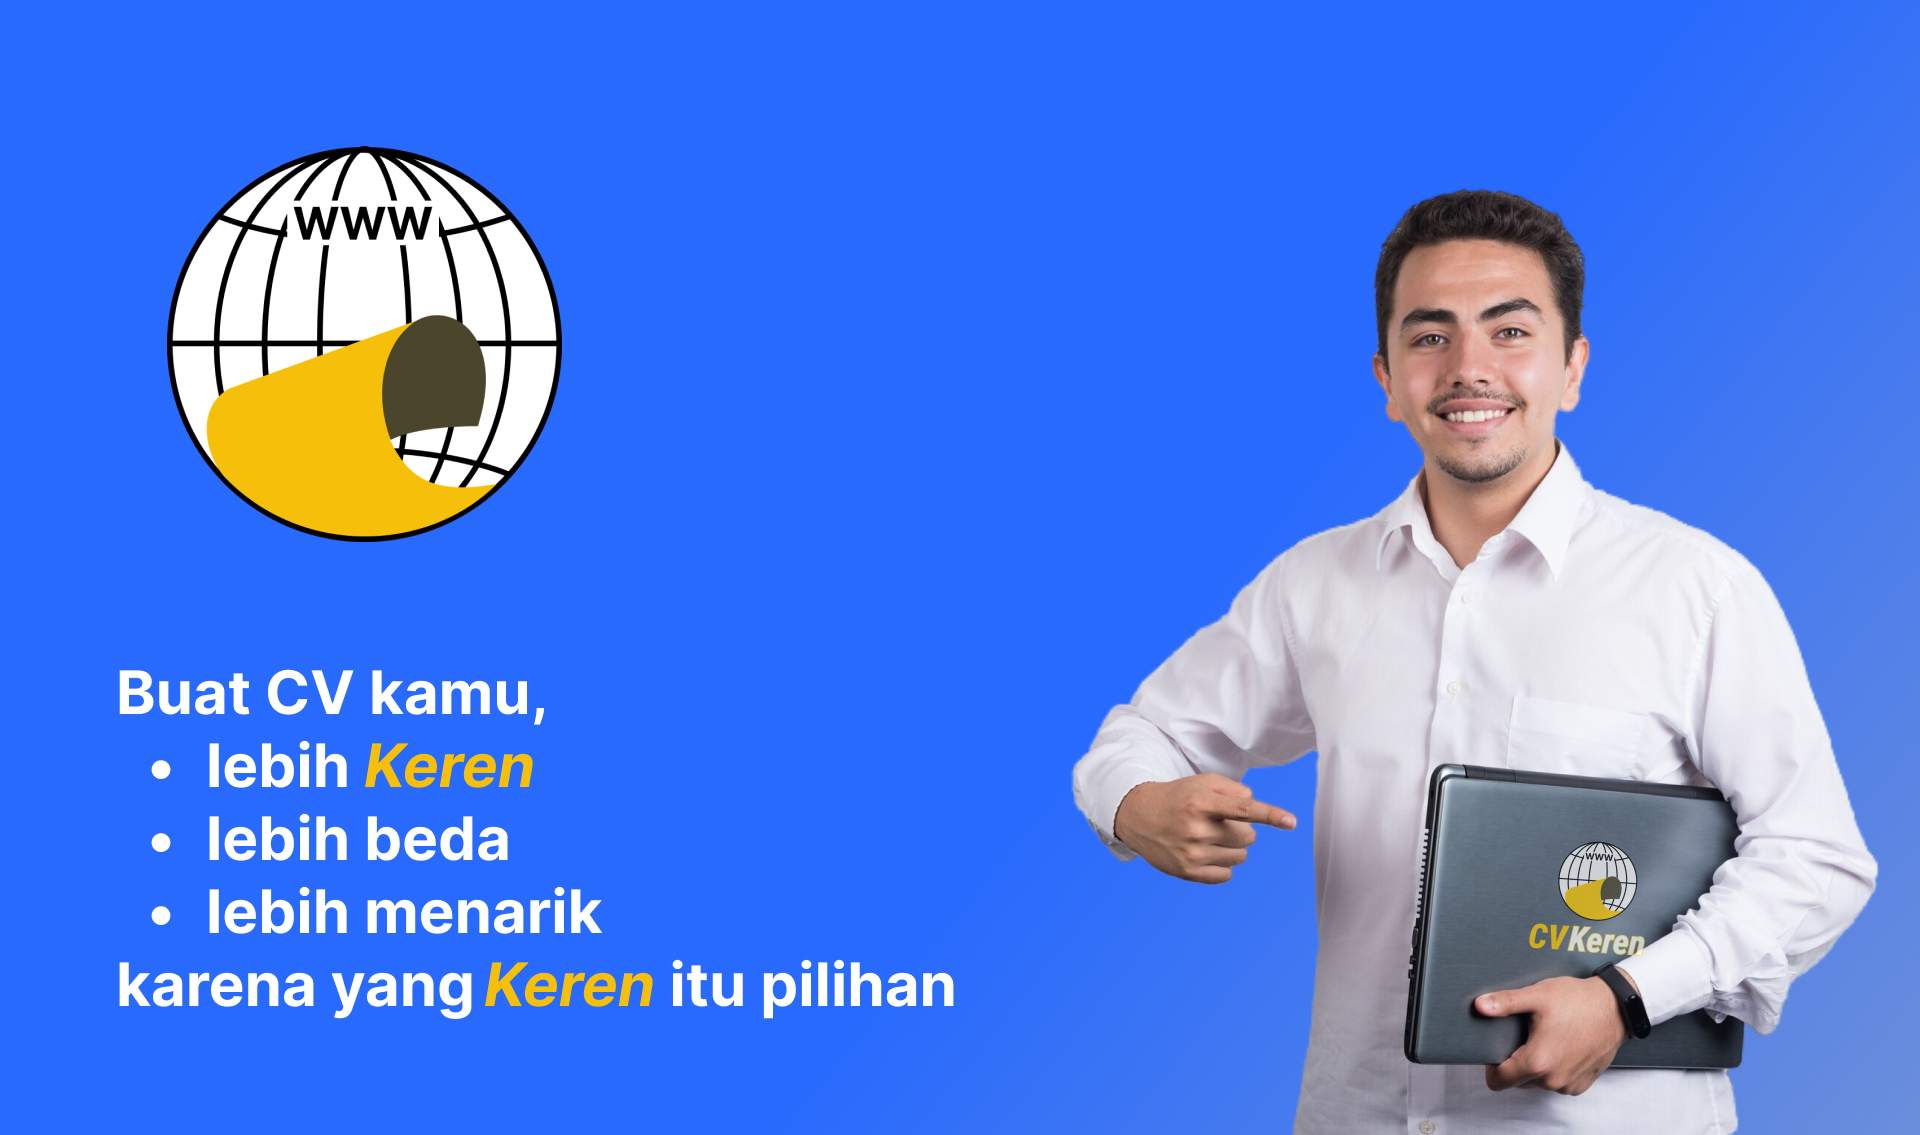
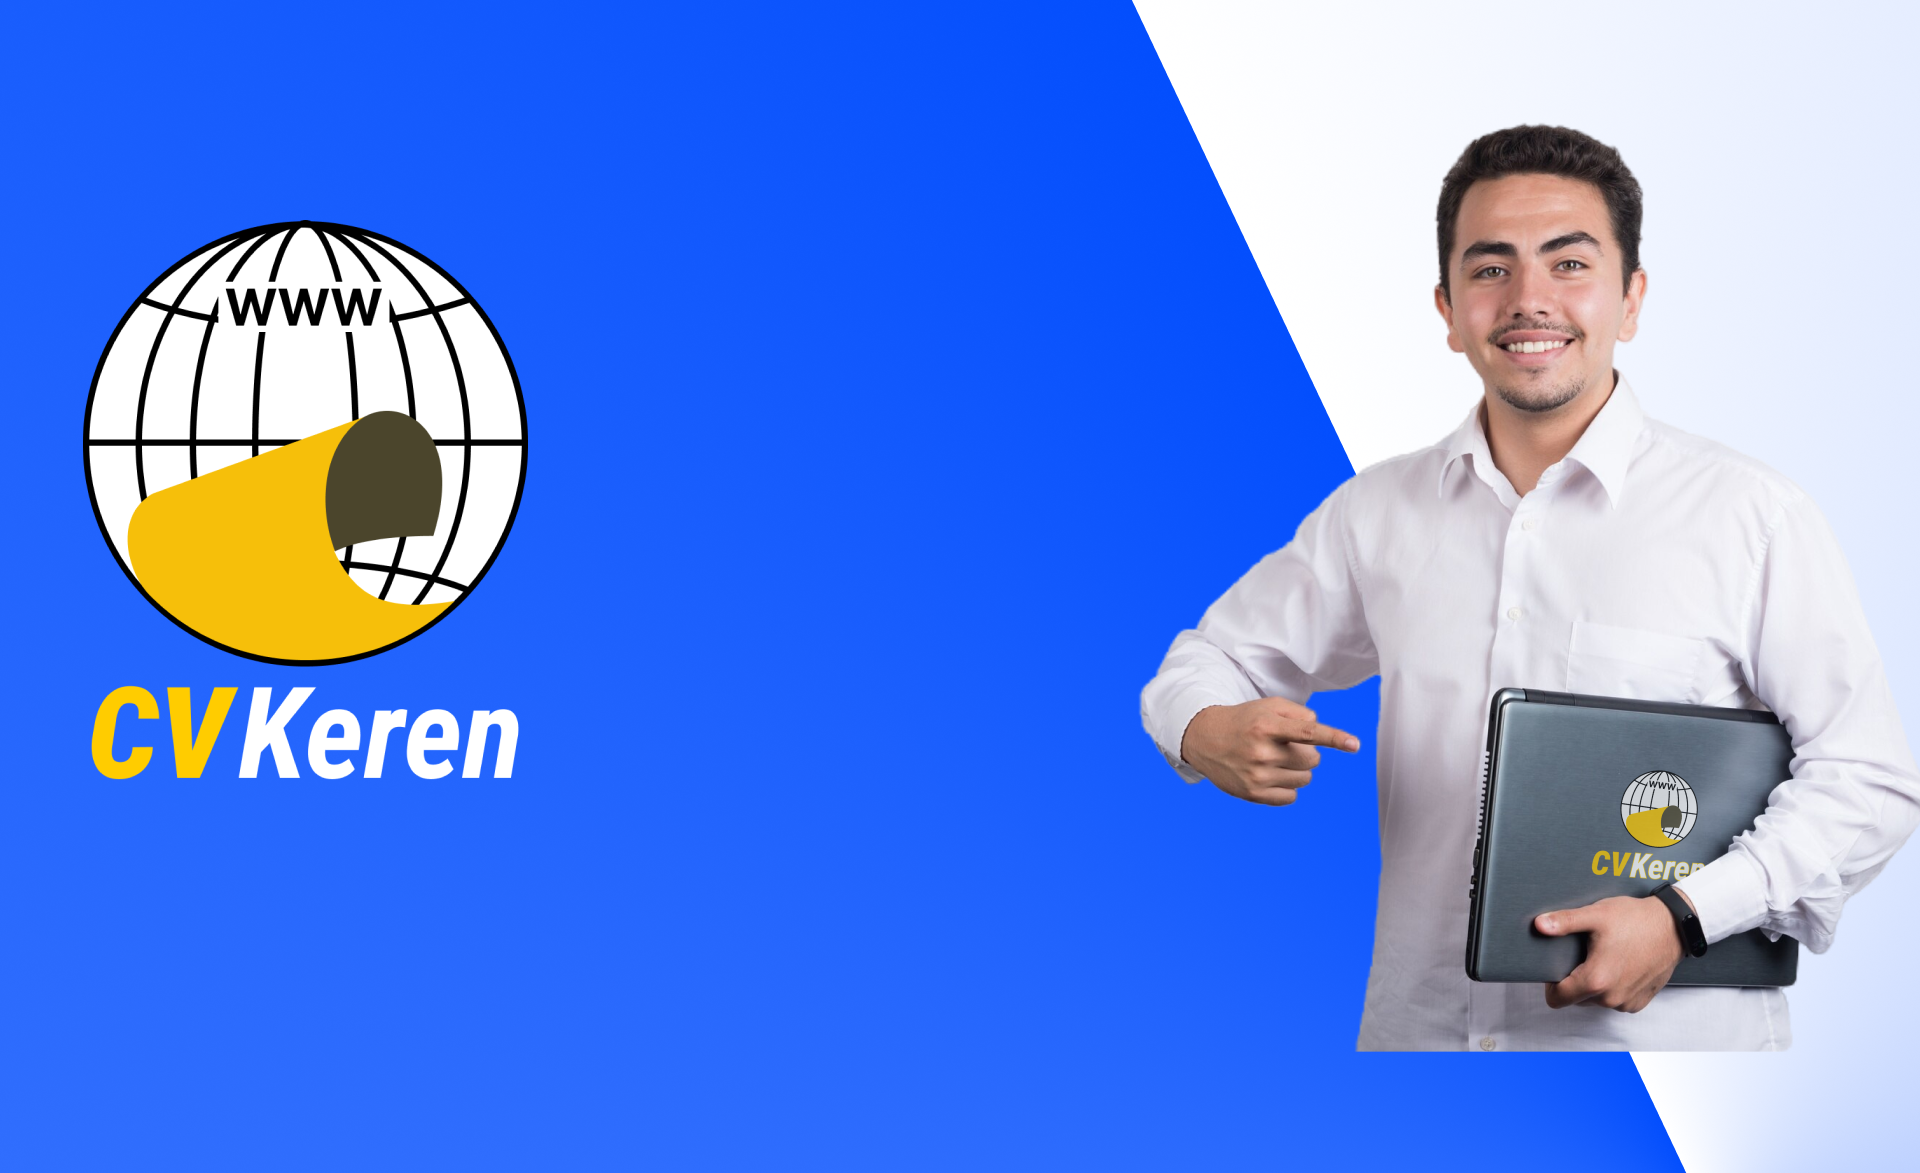
menyesuaikan halaman depan

diff --git a/assets/css/style.css b/assets/css/style.css
@@ -118,7 +118,7 @@ h6 {
 # Header
 --------------------------------------------------------------*/
 #header {
-  background: #e9e8e6;
+  background: #034efd;
   box-shadow: 0px 0px 25px 0 rgba(0, 0, 0, 0.08);
   z-index: 997;
   padding: 15px 0;
@@ -199,7 +199,7 @@ h6 {
   font-family: "Raleway", sans-serif;
   font-size: 15px;
   font-weight: 600;
-  color: #888888;
+  color: #ffffff;
   white-space: nowrap;
   transition: 0.3s;
   position: relative;
@@ -236,7 +236,7 @@ h6 {
 .navbar .active,
 .navbar .active:focus,
 .navbar li:hover>a {
-  color: #222222;
+  color: #ffc300;
 }
 
 .navbar .dropdown ul {
@@ -274,7 +274,7 @@ h6 {
 .navbar .dropdown ul a:hover,
 .navbar .dropdown ul .active:hover,
 .navbar .dropdown ul li:hover>a {
-  color: #34b7a7;
+  color: #034efd;
 }
 
 .navbar .dropdown:hover>ul {
@@ -310,7 +310,7 @@ h6 {
 * Mobile Navigation 
 */
 .mobile-nav-toggle {
-  color: #222222;
+  color: #ffc300;
   font-size: 28px;
   cursor: pointer;
   display: none;
@@ -374,7 +374,7 @@ h6 {
 .navbar-mobile a:hover,
 .navbar-mobile .active,
 .navbar-mobile li:hover>a {
-  color: #34b7a7;
+  color: #034efd;
 }
 
 .navbar-mobile .getstarted,
@@ -409,7 +409,7 @@ h6 {
 .navbar-mobile .dropdown ul a:hover,
 .navbar-mobile .dropdown ul .active:hover,
 .navbar-mobile .dropdown ul li:hover>a {
-  color: #34b7a7;
+  color: #034efd;
 }
 
 .navbar-mobile .dropdown>.dropdown-active {
@@ -446,8 +446,9 @@ h6 {
 }
 
 #hero h2 {
-  color: #6f6f6f;
+  color: #959595;
   margin: 10px 0 0 0;
+  text-align: center;
   font-size: 22px;
 }
 
@@ -463,11 +464,11 @@ h6 {
   transition: 0.5s;
   margin-top: 30px;
   color: #fff;
-  background: #34b7a7;
+  background: #ffbb00;
 }
 
 #hero .btn-about:hover {
-  background: #3dc8b7;
+  background: linear-gradient(180deg, rgba(255,187,0,1) 42%, rgba(255,124,0,1) 100%);
 }
 
 @media (min-width: 1024px) {

diff --git a/index.html b/index.html
@@ -48,12 +48,12 @@
 
       <nav id="navbar" class="navbar order-last order-lg-0">
         <ul>
-          <li><a class="active" href="index.html">Home</a></li>
-          <li><a href="about.html">About</a></li>
+          <li><a class="active" href="index.html">Beranda</a></li>
+          <li><a href="about.html">Tentang</a></li>
           <!--<li><a href="resume.html">Resume</a></li>-->
-          <li><a href="services.html">Services</a></li>
+          <li><a href="services.html">Layanan</a></li>
           <li><a href="portfolio.html">Portfolio</a></li>
-          <li><a href="contact.html">Contact</a></li>
+          <li><a href="contact.html">Kontak</a></li>
         </ul>
         <i class="bi bi-list mobile-nav-toggle"></i>
       </nav><!-- .navbar -->
@@ -73,9 +73,8 @@
   <!-- ======= Hero Section ======= -->
   <section id="hero" class="d-flex align-items-center">
     <div class="container d-flex flex-column align-items-center" data-aos="zoom-in" data-aos-delay="100">
-      <h1>CV Keren</h1>
-      <h2>We are a professional created cv online from Bekasi</h2>
-      <a href="about.html" class="btn-about">About CV Keren</a>
+      <h2>Buat CV kamu lebih KEREN agar lebih menarik.</h2>
+      <a href="about.html" class="btn-about">Tentang CV Keren</a>
     </div>
   </section><!-- End Hero -->
 

diff --git a/portfolio.html b/portfolio.html
@@ -48,12 +48,12 @@
 
       <nav id="navbar" class="navbar order-last order-lg-0">
         <ul>
-          <li><a href="index.html">Home</a></li>
-          <li><a href="about.html">About</a></li>
-          <!-- <li><a href="resume.html">Resume</a></li>-->
-          <li><a href="services.html">Services</a></li>
-          <li><a class="active" href="portfolio.html">Portfolio</a></li>
-          <li><a href="contact.html">Contact</a></li>
+          <li><a class="active" href="index.html">Beranda</a></li>
+          <li><a href="about.html">Tentang</a></li>
+          <!--<li><a href="resume.html">Resume</a></li>-->
+          <li><a href="services.html">Layanan</a></li>
+          <li><a href="portfolio.html">Portfolio</a></li>
+          <li><a href="contact.html">Kontak</a></li>
         </ul>
         <i class="bi bi-list mobile-nav-toggle"></i>
       </nav><!-- .navbar -->

diff --git a/services.html b/services.html
@@ -48,12 +48,12 @@
 
       <nav id="navbar" class="navbar order-last order-lg-0">
         <ul>
-          <li><a href="index.html">Home</a></li>
-          <li><a href="about.html">About</a></li>
-          <!-- <li><a href="resume.html">Resume</a></li> -->
-          <li><a class="active" href="services.html">Services</a></li>
+          <li><a class="active" href="index.html">Beranda</a></li>
+          <li><a href="about.html">Tentang</a></li>
+          <!--<li><a href="resume.html">Resume</a></li>-->
+          <li><a href="services.html">Layanan</a></li>
           <li><a href="portfolio.html">Portfolio</a></li>
-          <li><a href="contact.html">Contact</a></li>
+          <li><a href="contact.html">Kontak</a></li>
         </ul>
         <i class="bi bi-list mobile-nav-toggle"></i>
       </nav><!-- .navbar -->

diff --git a/about.html b/about.html
@@ -48,12 +48,12 @@
 
       <nav id="navbar" class="navbar order-last order-lg-0">
         <ul>
-          <li><a href="index.html">Home</a></li>
-          <li><a class="active" href="about.html">About</a></li>
-          <!-- <li><a href="resume.html">Resume</a></li>-->
-          <li><a href="services.html">Services</a></li>
+          <li><a class="active" href="index.html">Beranda</a></li>
+          <li><a href="about.html">Tentang</a></li>
+          <!--<li><a href="resume.html">Resume</a></li>-->
+          <li><a href="services.html">Layanan</a></li>
           <li><a href="portfolio.html">Portfolio</a></li>
-          <li><a href="contact.html">Contact</a></li>
+          <li><a href="contact.html">Kontak</a></li>
         </ul>
         <i class="bi bi-list mobile-nav-toggle"></i>
       </nav><!-- .navbar -->

diff --git a/contact.html b/contact.html
@@ -48,11 +48,12 @@
 
       <nav id="navbar" class="navbar order-last order-lg-0">
         <ul>
-          <li><a href="index.html">Home</a></li>
-          <li><a href="about.html">About</a></li>
-          <li><a href="services.html">Services</a></li>
+          <li><a class="active" href="index.html">Beranda</a></li>
+          <li><a href="about.html">Tentang</a></li>
+          <!--<li><a href="resume.html">Resume</a></li>-->
+          <li><a href="services.html">Layanan</a></li>
           <li><a href="portfolio.html">Portfolio</a></li>
-          <li><a class="active" href="contact.html">Contact</a></li>
+          <li><a href="contact.html">Kontak</a></li>
         </ul>
         <i class="bi bi-list mobile-nav-toggle"></i>
       </nav><!-- .navbar -->
